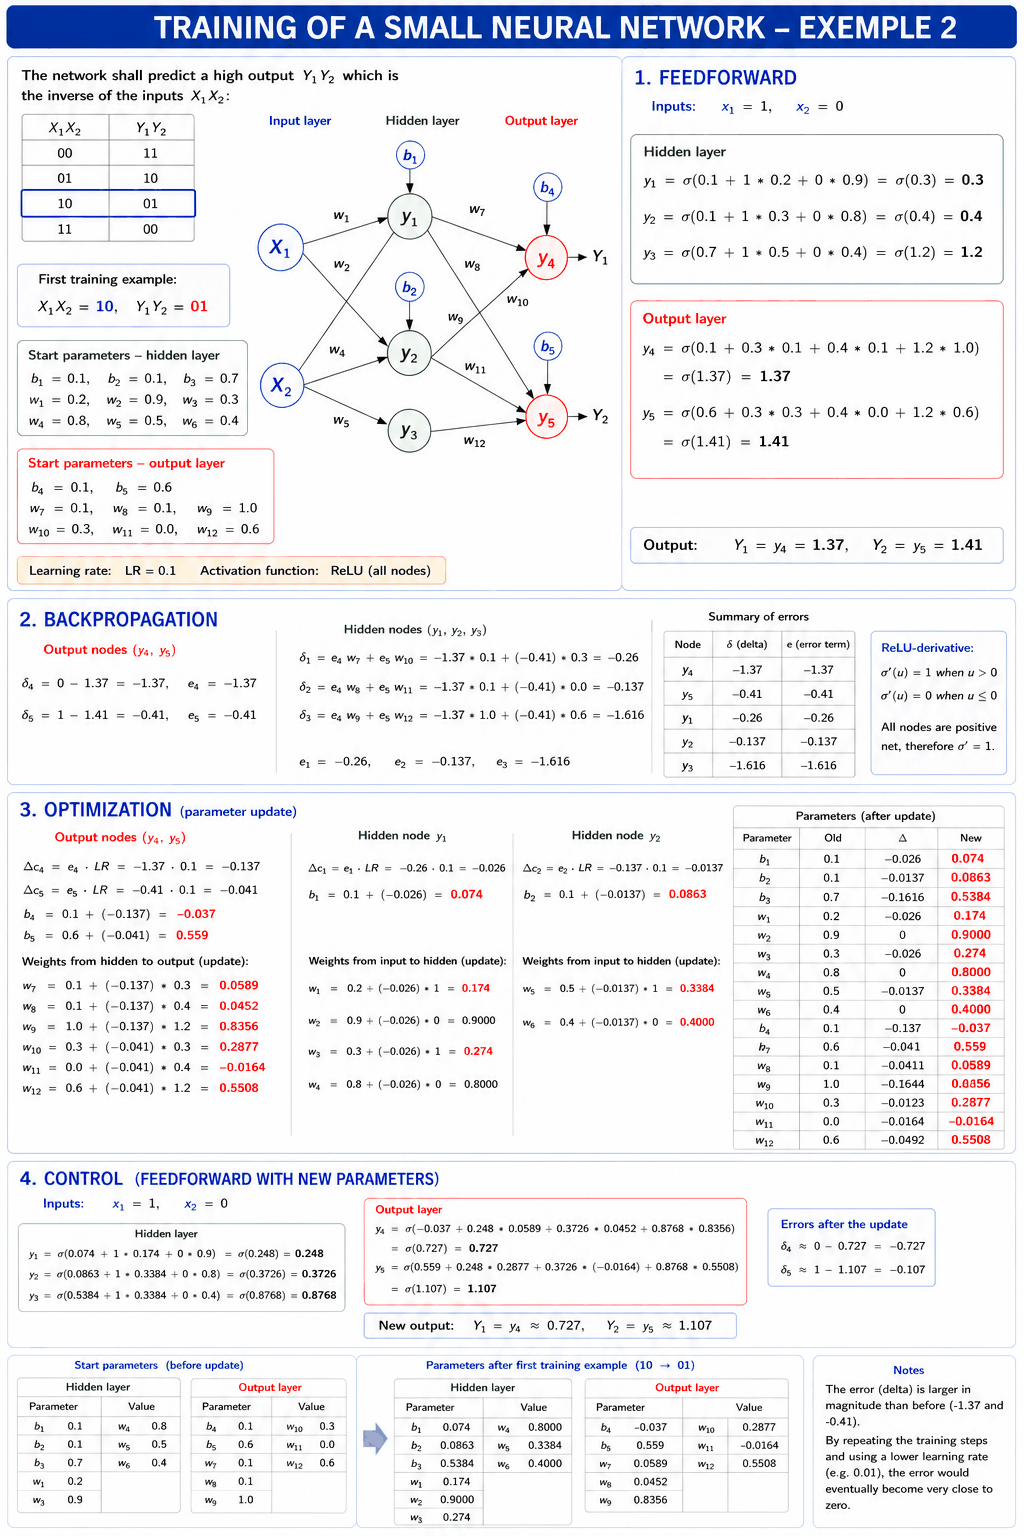
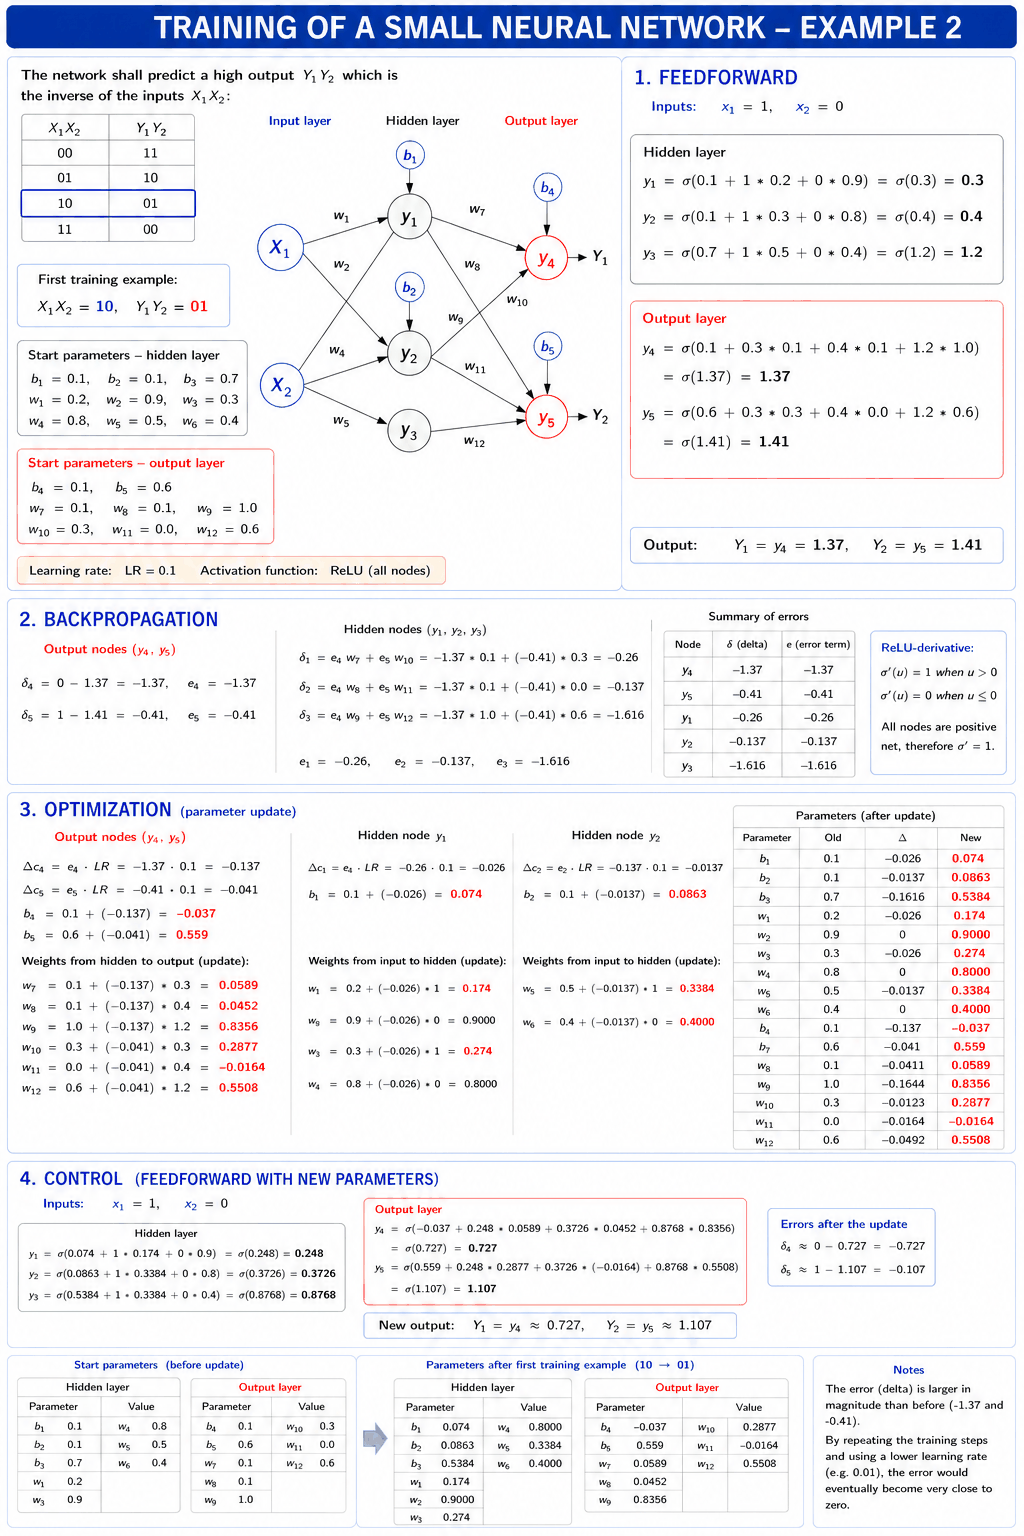
Fix typos

diff --git a/lectures/L01/appendix/b_exercises.md b/lectures/L01/appendix/b_exercises.md
@@ -75,7 +75,7 @@ In the header file `ml/lin_reg/interface.hpp`, add a namespace named `ml::lin_re
 In this namespace, implement an interface named `Interface` with the following public methods:
 * **`~Interface()`:**
     * The interface's destructor. 
-    * Should be marked `default` and `noexcept`.
+    * Should be marked `default`, `virtual`, and `noexcept`.
 * **`predict()`:**
     * Should perform a prediction. 
     * Should take a single floating-point argument named `input`.

diff --git a/lectures/L06/appendix/b_exercises.md b/lectures/L06/appendix/b_exercises.md
@@ -311,21 +311,21 @@ Removing the outermost row and column (padding) leaves a 4×4 matrix matching th
 Finally, we update the kernel and bias using the learning rate `LR`:
 
 ```
-kernel = kernel − LR * kernelGradient
-bias   = bias   − LR * biasGradient
+kernel = kernel + LR * kernelGradient
+bias   = bias   + LR * biasGradient
 ```
 
 **Updated kernel:**
 
 ```
-0.17 0.36
-0.50 0.70
+0.23 0.44
+0.70 0.90
 ```
 
 **Updated bias:**
 
 ```
-0.4
+0.6
 ```
 
 ---
